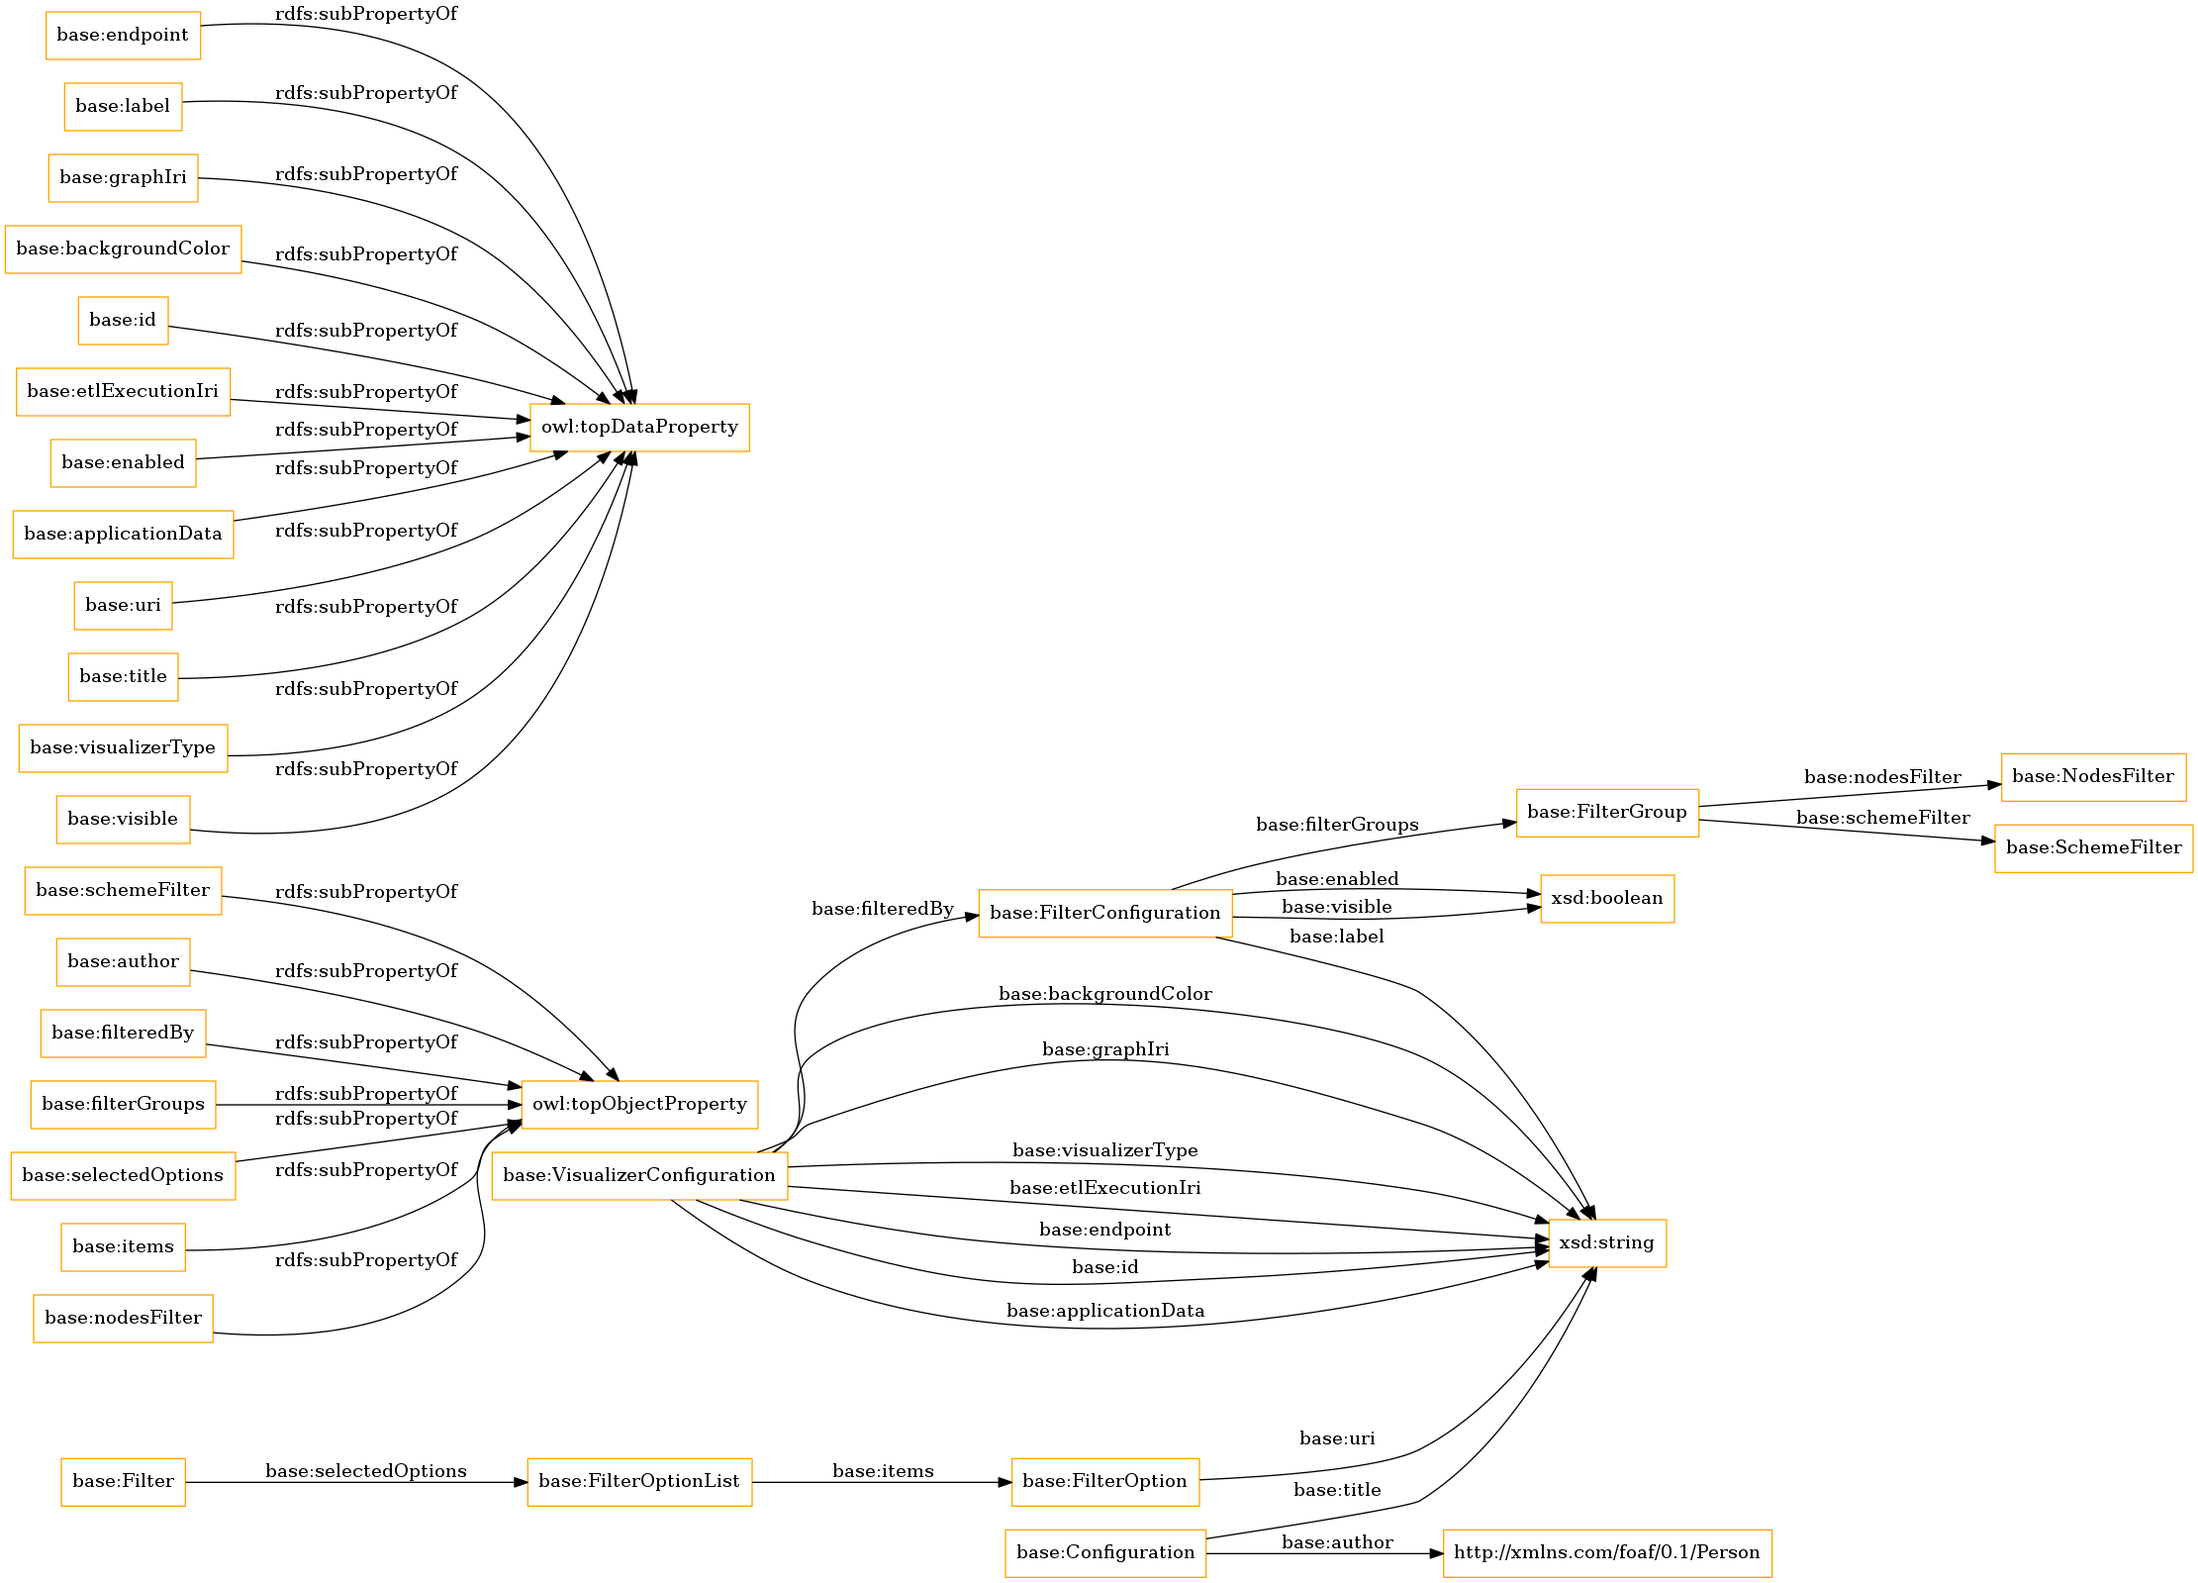
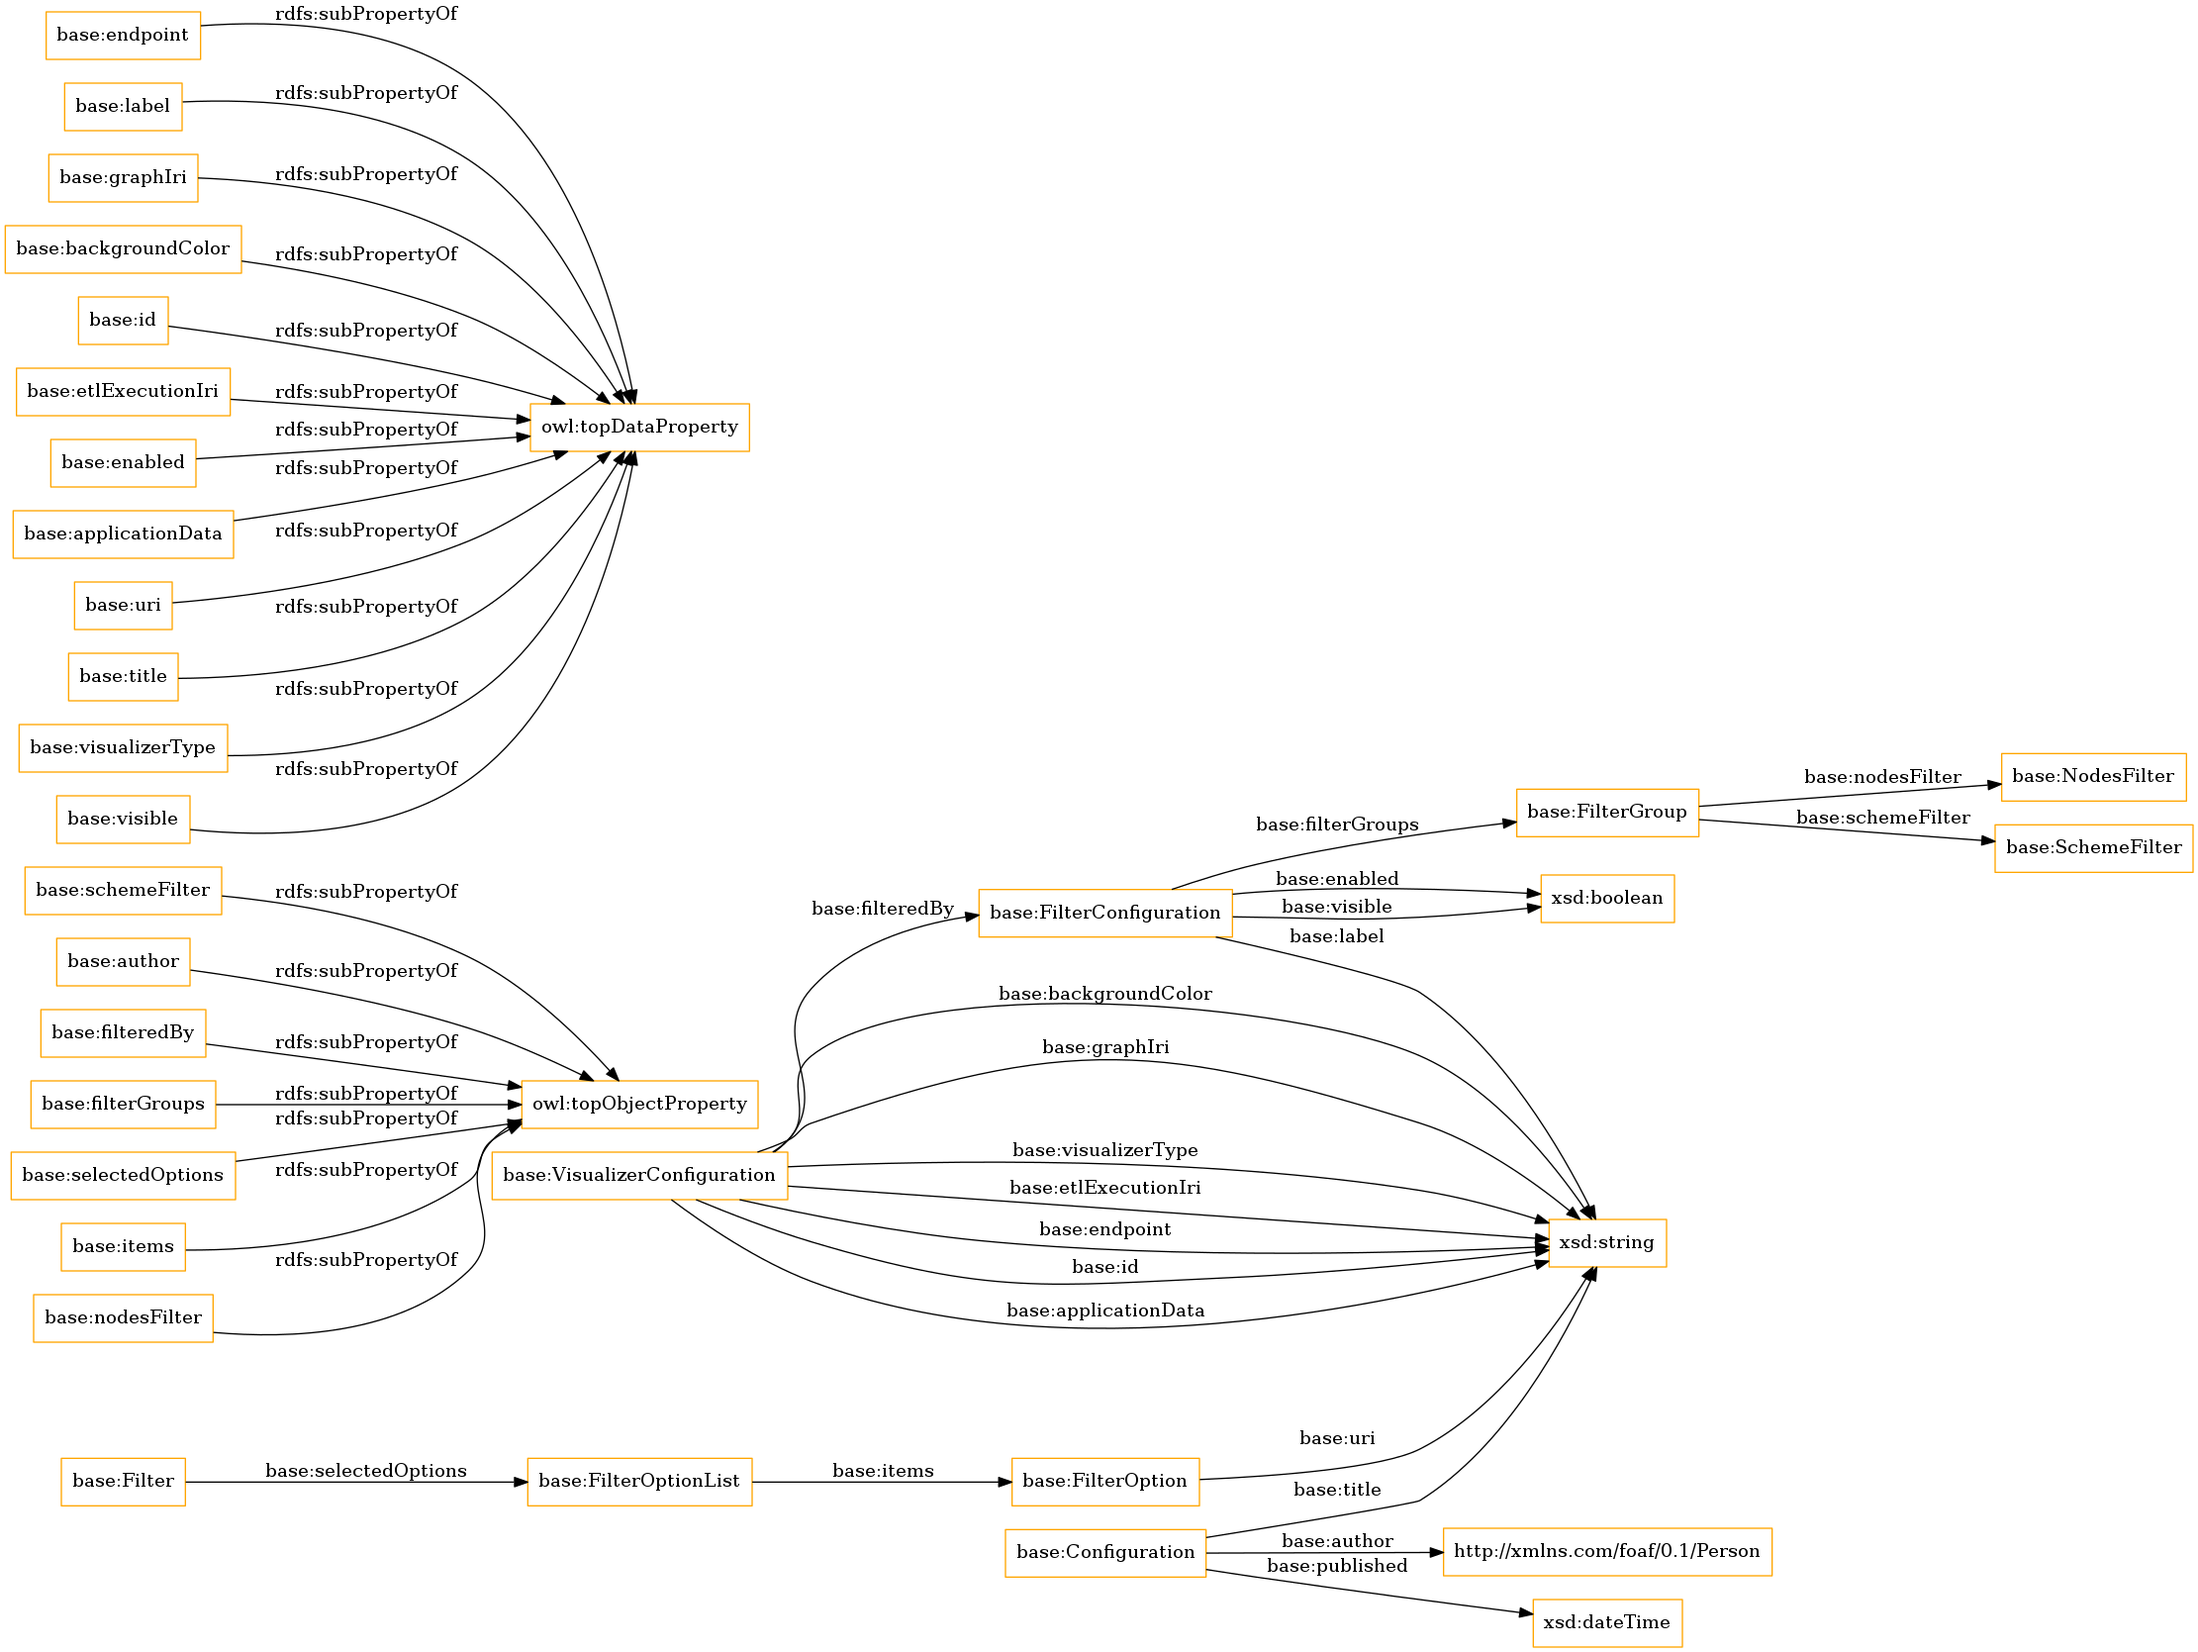
automated change

diff --git a/OnToology/lpapps.owl/evaluation/oops.html b/OnToology/lpapps.owl/evaluation/oops.html
@@ -117,24 +117,10 @@ table.tablesorter thead tr .headerSortDown {
     <div class="panel-heading">
     <h4 class="panel-title">
     <a data-toggle="collapse" href="#collapse0">
-    "P10". "Missing disjointness"<span style="float: right;">"1" cases detected. <span class="label label-warning">"Important"</span></span></a>
-    </h4>
-    </div>
-    <div id="collapse0" class="panel-collapse collapse">
-    <div class="panel-body">
-    <p>"The ontology lacks disjoint axioms between classes or between properties that should be defined as disjoint. This pitfall is related with the guidelines provided in [6], [2] and [7].\t"</p>
-    </div>
-    </div>
-    </div>
-    
-    <div class="panel panel-default">
-    <div class="panel-heading">
-    <h4 class="panel-title">
-    <a data-toggle="collapse" href="#collapse1">
     "P13". "Inverse relationships not explicitly declared"<span style="float: right;">"7" cases detected. <span class="label label-minor">"Minor"</span></span></a>
     </h4>
     </div>
-    <div id="collapse1" class="panel-collapse collapse">
+    <div id="collapse0" class="panel-collapse collapse">
     <div class="panel-body">
     <p>"This pitfall appears when any relationship (except for those that are defined as symmetric properties using owl:SymmetricProperty) does not have an inverse relationship (owl:inverseOf) defined within the ontology.\t"</p>
     </div>
@@ -144,13 +130,27 @@ table.tablesorter thead tr .headerSortDown {
     <div class="panel panel-default">
     <div class="panel-heading">
     <h4 class="panel-title">
+    <a data-toggle="collapse" href="#collapse1">
+    "P08". "Missing annotations"<span style="float: right;">"30" cases detected. <span class="label label-minor">"Minor"</span></span></a>
+    </h4>
+    </div>
+    <div id="collapse1" class="panel-collapse collapse">
+    <div class="panel-body">
+    <p>"This pitfall consists in creating an ontology element and failing to provide human readable annotations attached to it. Consequently, ontology elements lack annotation properties that label them (e.g. rdfs:label, lemon:LexicalEntry, skos:prefLabel or skos:altLabel) or that define them (e.g. rdfs:comment or dc:description). This pitfall is related to the guidelines provided in [5].\t"</p>
+    </div>
+    </div>
+    </div>
+    
+    <div class="panel panel-default">
+    <div class="panel-heading">
+    <h4 class="panel-title">
     <a data-toggle="collapse" href="#collapse2">
-    "P08". "Missing annotations"<span style="float: right;">"29" cases detected. <span class="label label-minor">"Minor"</span></span></a>
+    "P10". "Missing disjointness"<span style="float: right;">"1" cases detected. <span class="label label-warning">"Important"</span></span></a>
     </h4>
     </div>
     <div id="collapse2" class="panel-collapse collapse">
     <div class="panel-body">
-    <p>"This pitfall consists in creating an ontology element and failing to provide human readable annotations attached to it. Consequently, ontology elements lack annotation properties that label them (e.g. rdfs:label, lemon:LexicalEntry, skos:prefLabel or skos:altLabel) or that define them (e.g. rdfs:comment or dc:description). This pitfall is related to the guidelines provided in [5].\t"</p>
+    <p>"The ontology lacks disjoint axioms between classes or between properties that should be defined as disjoint. This pitfall is related with the guidelines provided in [6], [2] and [7].\t"</p>
     </div>
     </div>
     </div>

diff --git a/OnToology/lpapps.owl/documentation/sections/crossref-en.html b/OnToology/lpapps.owl/documentation/sections/crossref-en.html
@@ -66,7 +66,8 @@ This section provides details for each class and property defined by [Ontology N
          <dt>is in domain of</dt>
          <dd>
             <a href="#https://w3id.org/def/lpapps#author" title="https://w3id.org/def/lpapps#author">author</a>
-            <sup class="type-op" title="object property">op</sup>, <a href="#https://w3id.org/def/lpapps#title" title="https://w3id.org/def/lpapps#title">title</a>
+            <sup class="type-op" title="object property">op</sup>, <a href="#https://w3id.org/def/lpapps#published" title="https://w3id.org/def/lpapps#published">published</a>
+            <sup class="type-dp" title="data property">dp</sup>, <a href="#https://w3id.org/def/lpapps#title" title="https://w3id.org/def/lpapps#title">title</a>
             <sup class="type-dp" title="data property">dp</sup>
          </dd>
       </dl>
@@ -525,6 +526,11 @@ This section provides details for each class and property defined by [Ontology N
          </a>
       </li>
       <li>
+         <a href="#https://w3id.org/def/lpapps#published" title="https://w3id.org/def/lpapps#published">
+            <span>published</span>
+         </a>
+      </li>
+      <li>
          <a href="#https://w3id.org/def/lpapps#title" title="https://w3id.org/def/lpapps#title">
             <span>title</span>
          </a>
@@ -747,6 +753,27 @@ This section provides details for each class and property defined by [Ontology N
             <dt>has range</dt>
             <dd>
                <span class="dotted" title="http://www.w3.org/2001/XMLSchema#string">string</span>
+            </dd>
+         </dl>
+      </div>
+   </div>
+   <div class="entity" id="https://w3id.org/def/lpapps#published">
+      <h3>published<sup class="type-dp" title="data property">dp</sup>
+         <span class="backlink"> back to <a href="#toc">ToC</a> or <a href="#dataproperties">Data Property ToC</a>
+         </span>
+      </h3>
+      <p>
+         <strong>IRI:</strong> https://w3id.org/def/lpapps#published</p>
+      <div class="description">
+         <dl>
+            <dt>has domain</dt>
+            <dd>
+               <a href="#https://w3id.org/def/lpapps#Configuration" title="https://w3id.org/def/lpapps#Configuration">configuration</a>
+               <sup class="type-c" title="class">c</sup>
+            </dd>
+            <dt>has range</dt>
+            <dd>
+               <span class="dotted" title="http://www.w3.org/2001/XMLSchema#dateTime">date time</span>
             </dd>
          </dl>
       </div>

diff --git a/OnToology/lpapps.owl/documentation/sections/overview-en.html b/OnToology/lpapps.owl/documentation/sections/overview-en.html
@@ -122,6 +122,11 @@ This ontology has the following classes and properties.</span>
       </a>
    </li>
    <li>
+      <a href="#https://w3id.org/def/lpapps#published" title="https://w3id.org/def/lpapps#published">
+         <span>published</span>
+      </a>
+   </li>
+   <li>
       <a href="#https://w3id.org/def/lpapps#title" title="https://w3id.org/def/lpapps#title">
          <span>title</span>
       </a>
